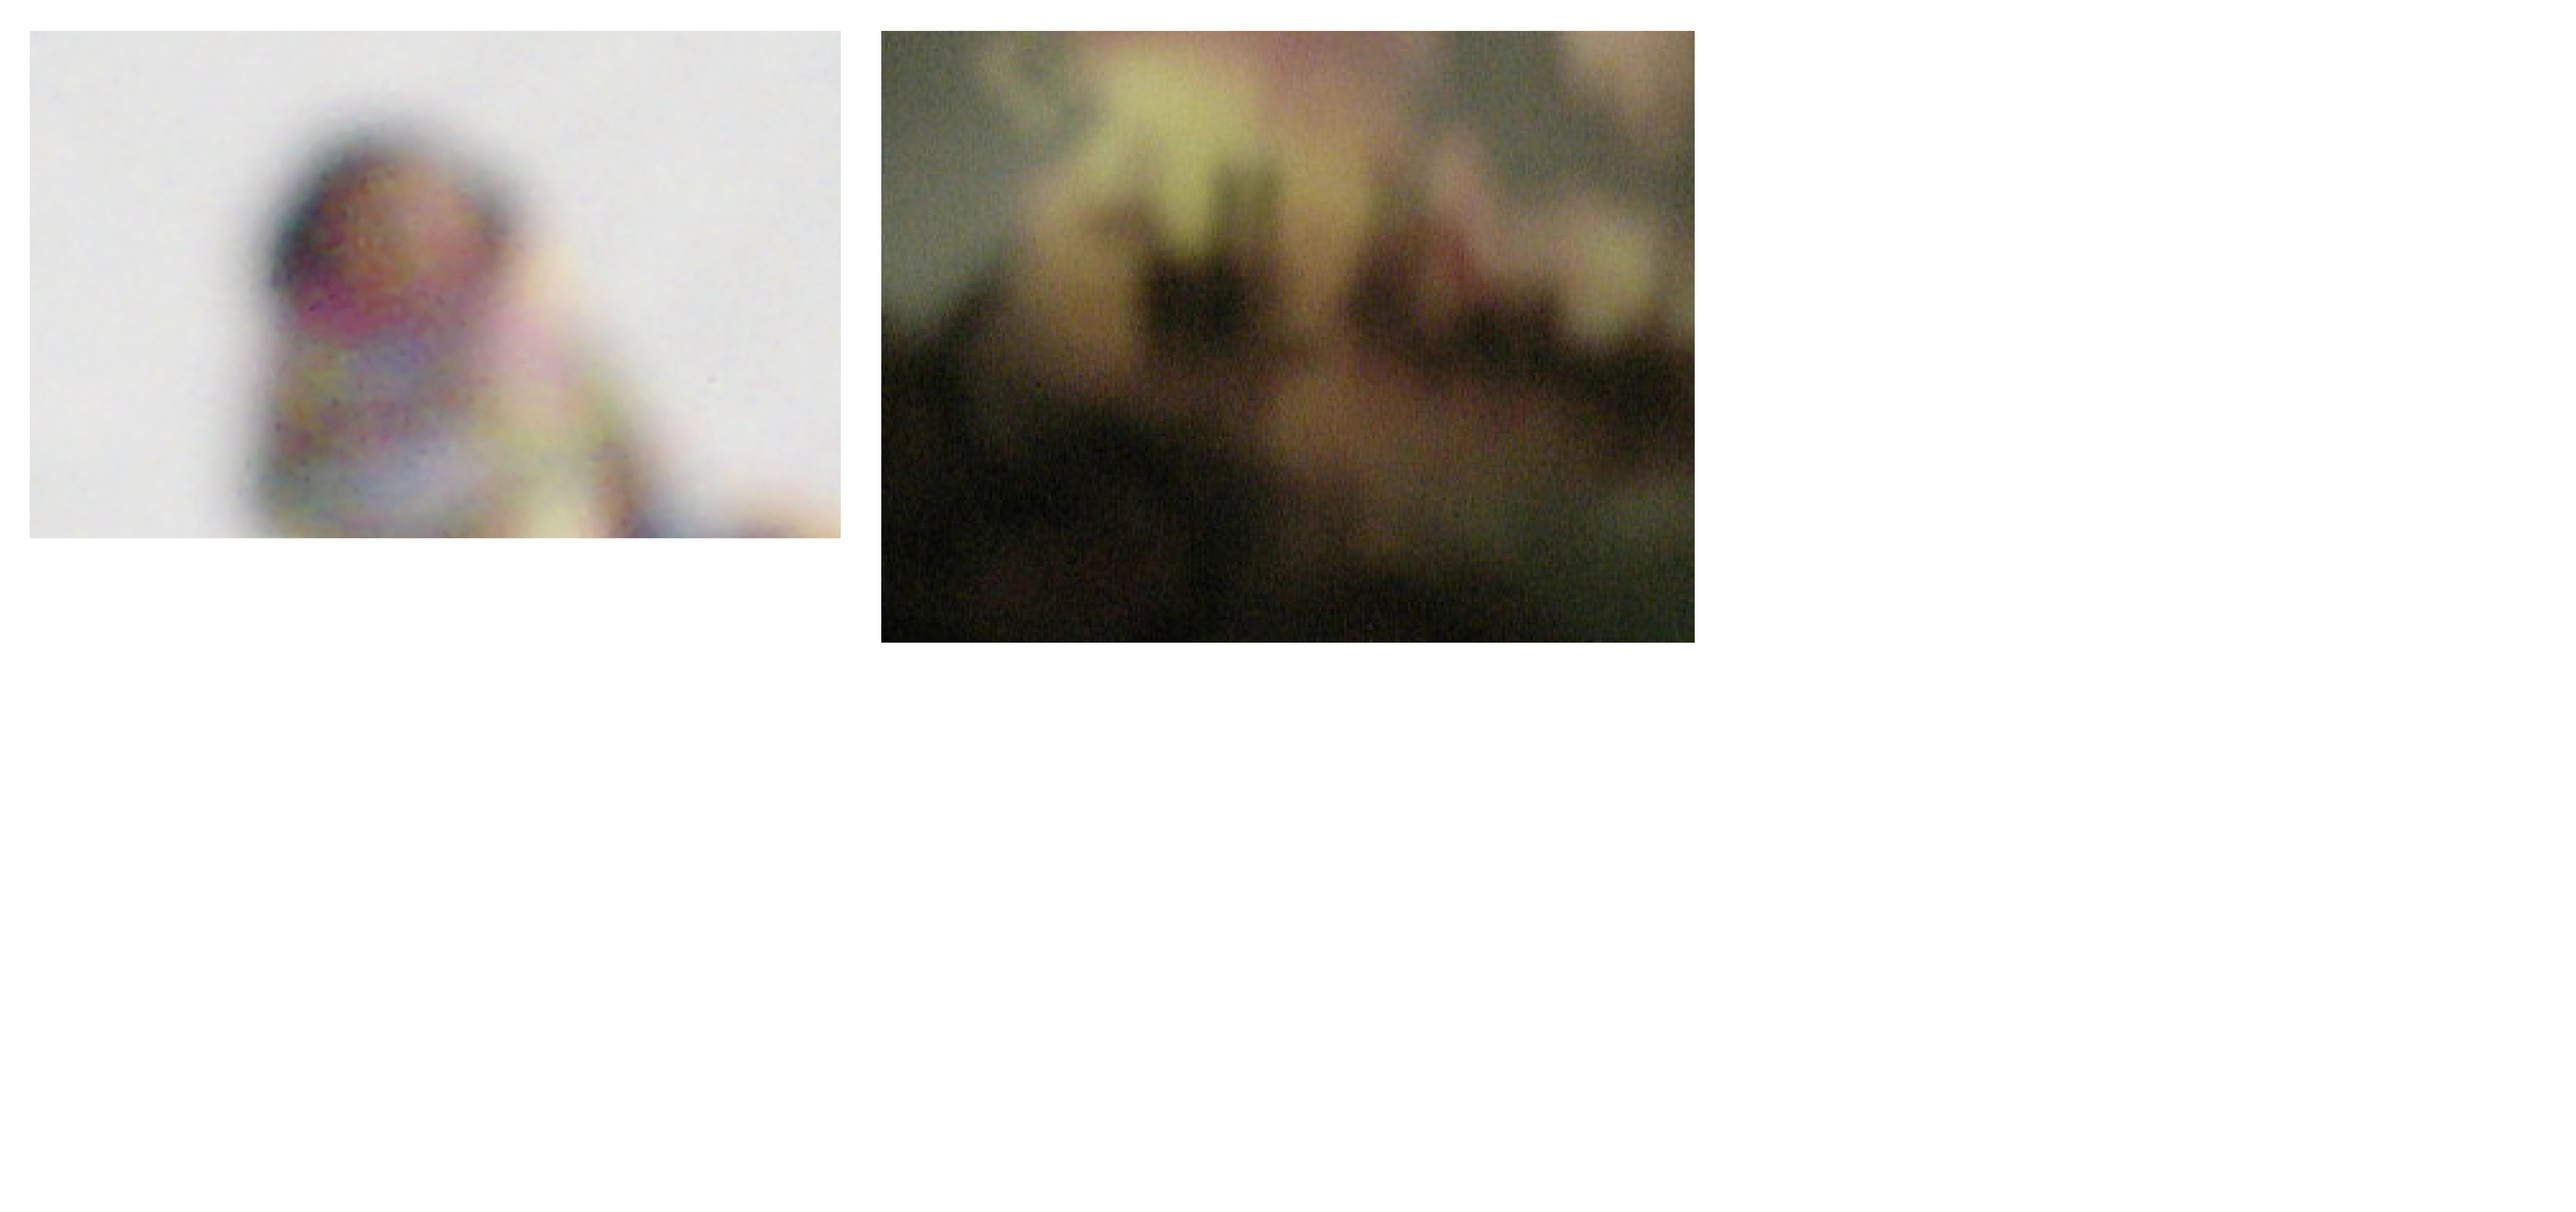
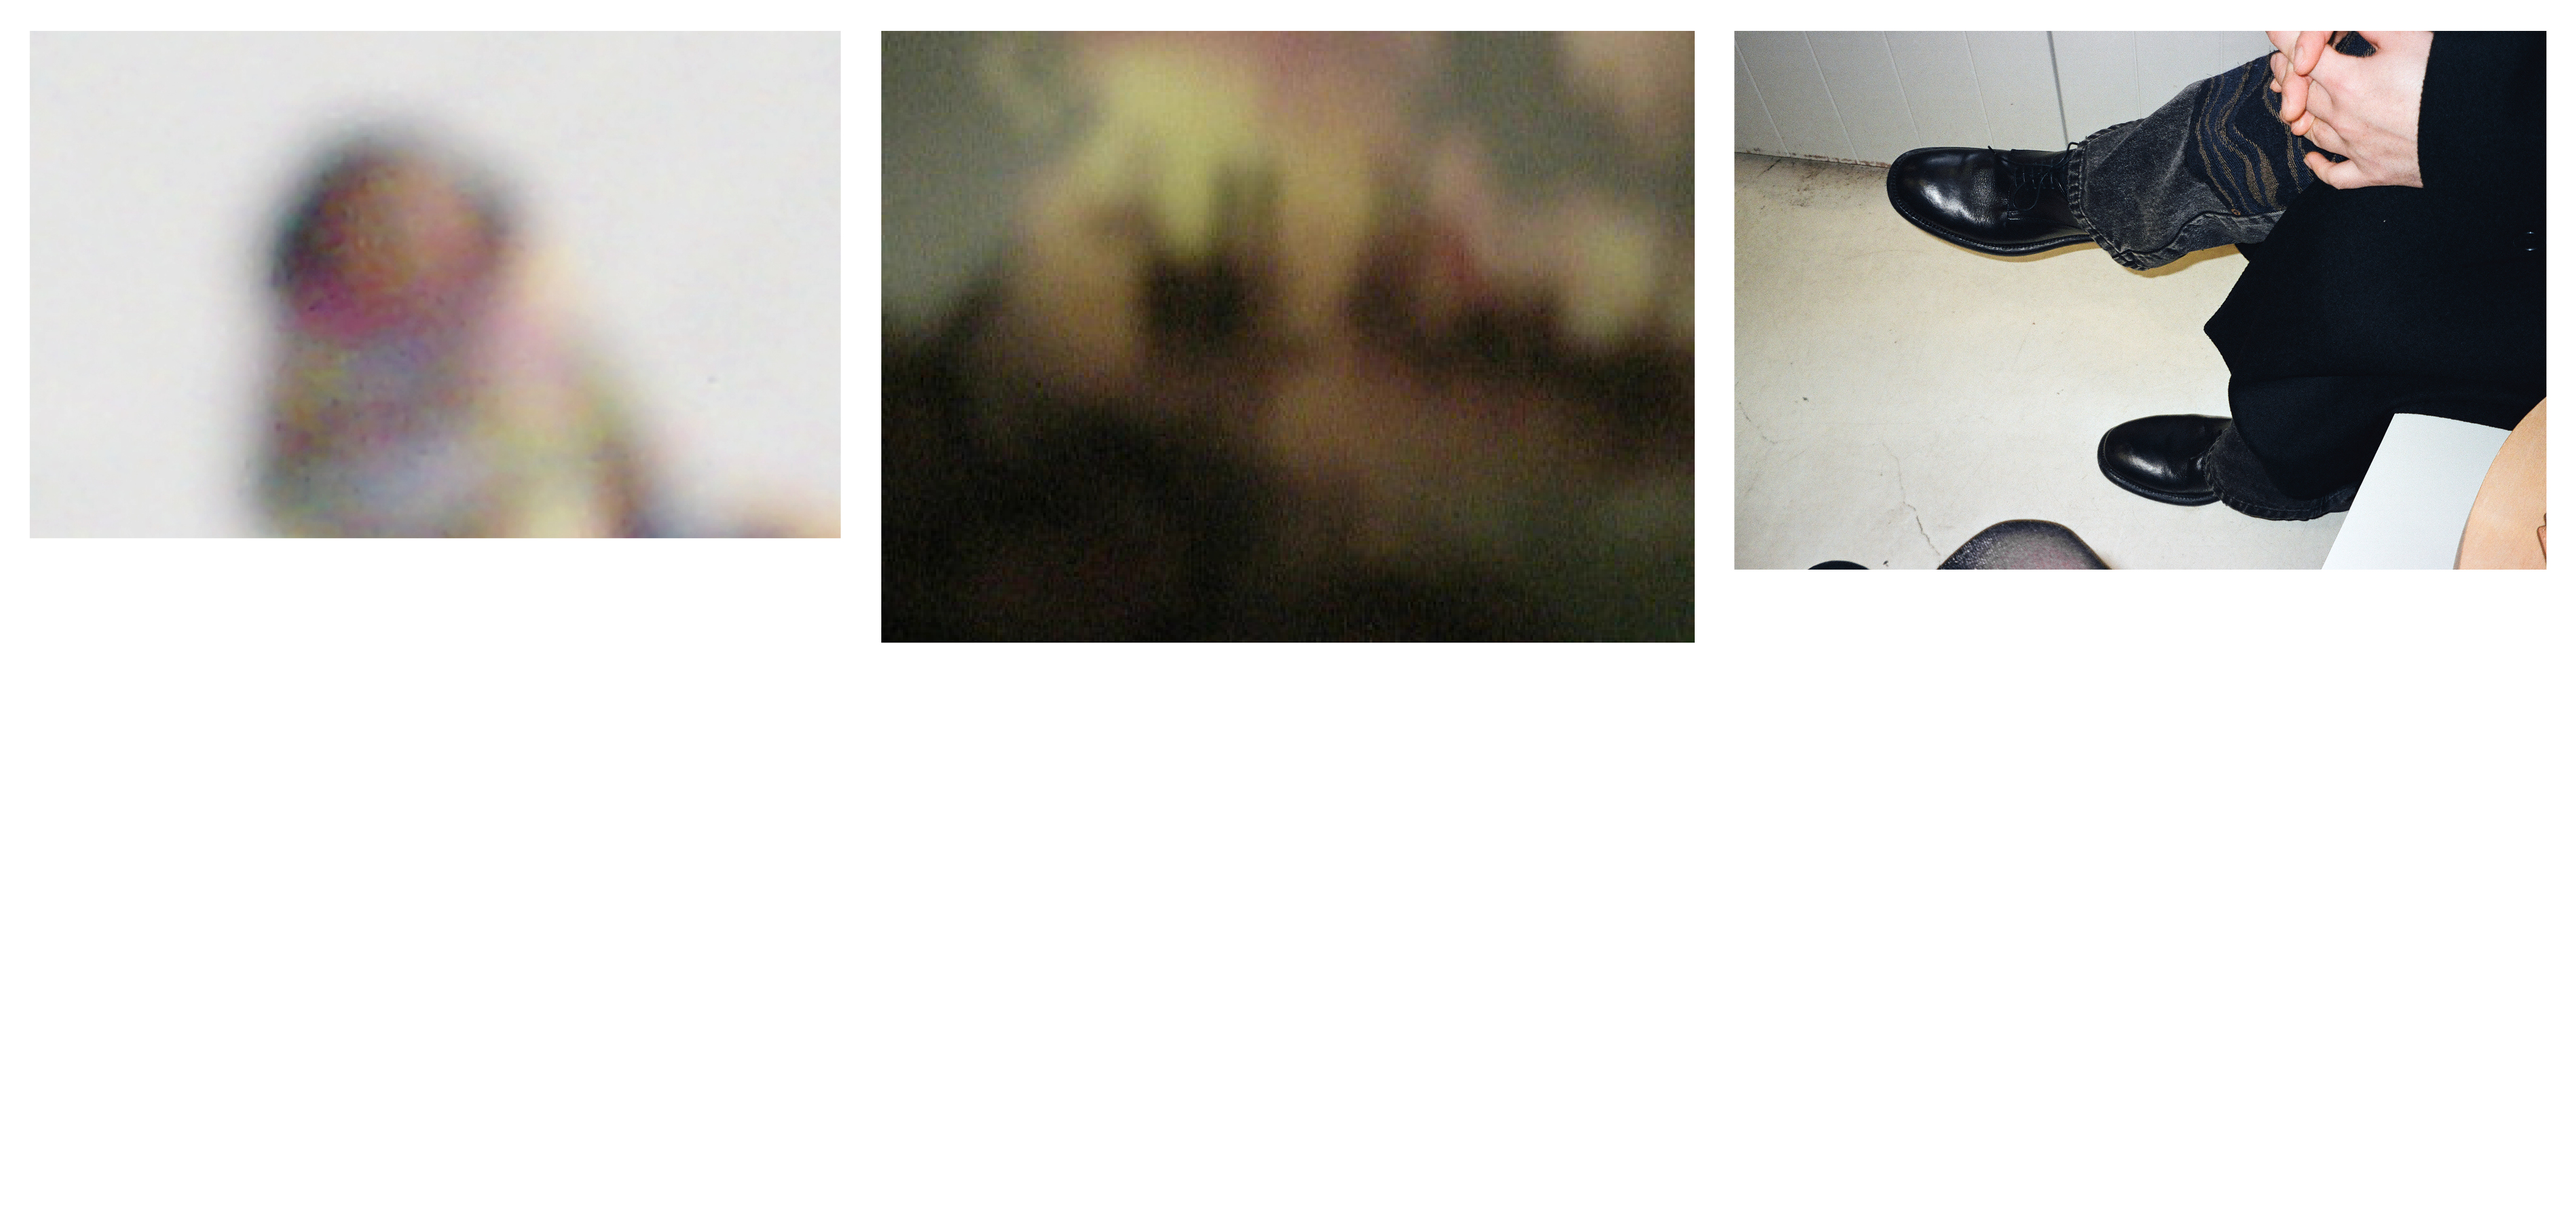
update

Changed region(s): [[0.6522, 0.0, 0.9939, 0.496]]

diff --git a/archives.html b/archives.html
@@ -292,7 +292,27 @@
 <a href="#img2"><img src="images/202608176.jpg" alt="202608"></a>
 <a href="#img2"><img src="images/202608177.jpg" alt="202608"></a>
 <a href="#img2"><img src="images/202608178.jpg" alt="202608"></a>
+<a href="#img2"><img src="images/202608179.jpg" alt="202608"></a>
+<a href="#img2"><img src="images/202608180.jpg" alt="202608"></a>
 
+<a href="#img2"><img src="images/202608181.jpg" alt="202608"></a>
+<a href="#img2"><img src="images/202608182.jpg" alt="202608"></a>
+<a href="#img2"><img src="images/202608183.jpg" alt="202608"></a>
+<a href="#img2"><img src="images/202608184.jpg" alt="202608"></a>
+<a href="#img2"><img src="images/202608185.jpg" alt="202608"></a>
+<a href="#img2"><img src="images/202608186.jpg" alt="202608"></a>
+<a href="#img2"><img src="images/202608187.jpg" alt="202608"></a>
+<a href="#img2"><img src="images/202608188.jpg" alt="202608"></a>
+<a href="#img2"><img src="images/202608189.jpg" alt="202608"></a>
+<a href="#img2"><img src="images/202608190.jpg" alt="202608"></a>
+
+<a href="#img2"><img src="images/202608191.jpg" alt="202608"></a>
+<a href="#img2"><img src="images/202608192.jpg" alt="202608"></a>
+<a href="#img2"><img src="images/202608193.jpg" alt="202608"></a>
+<a href="#img2"><img src="images/202608194.jpg" alt="202608"></a>
+<a href="#img2"><img src="images/202608195.jpg" alt="202608"></a>
+<a href="#img2"><img src="images/202608196.jpg" alt="202608"></a>
+<a href="#img2"><img src="images/202608197.jpg" alt="202608"></a>
         </div>
 <br/>
 <br/>
